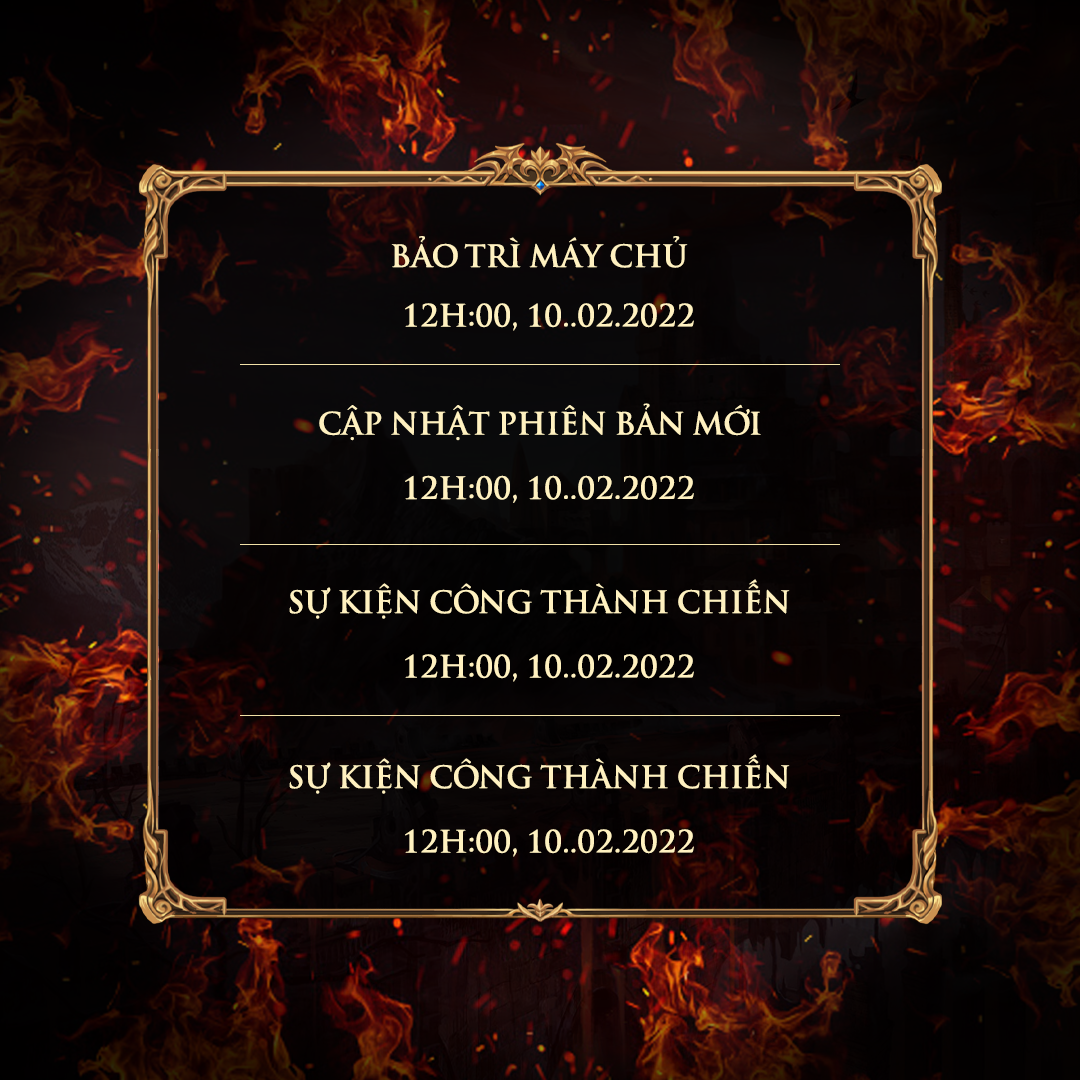
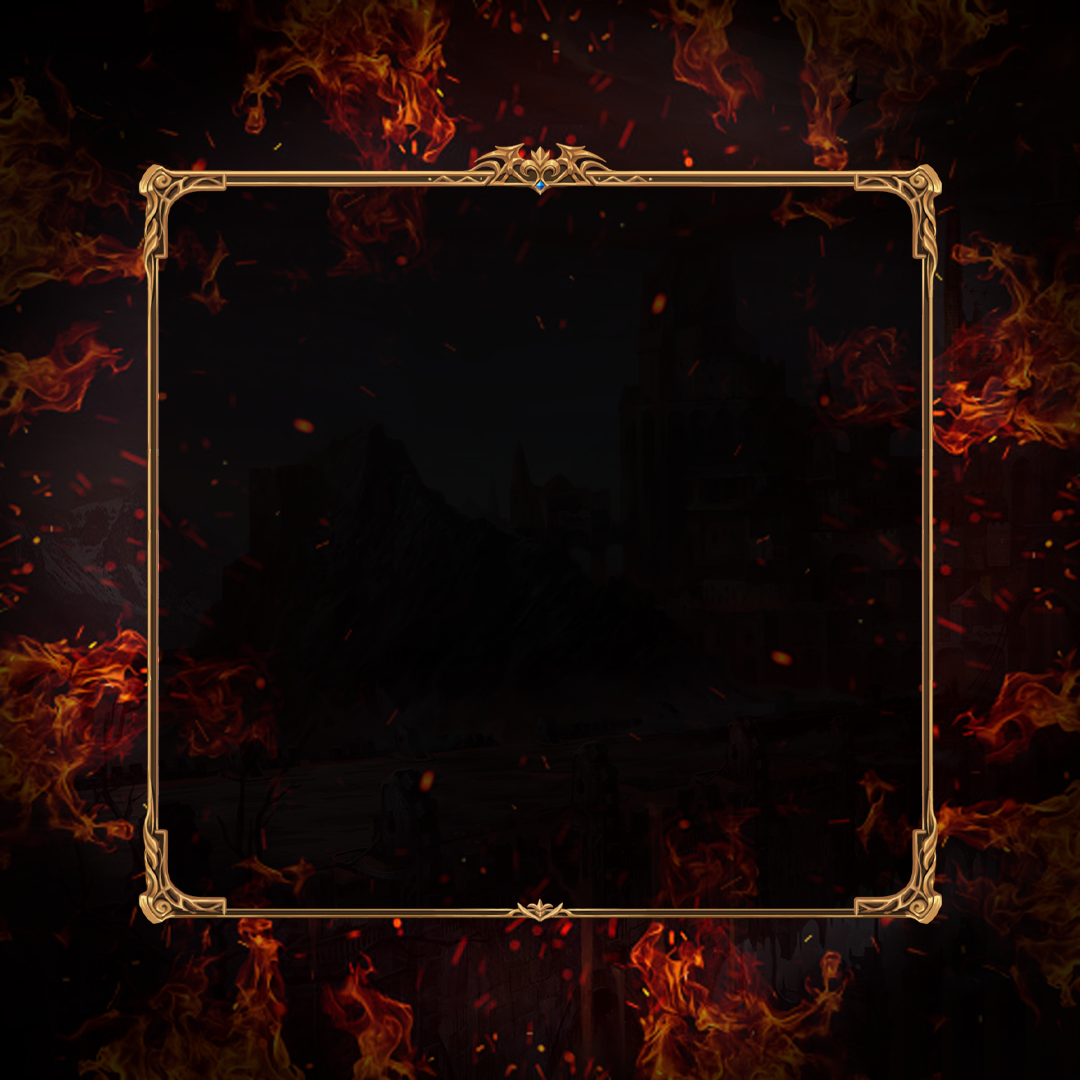
main

diff --git a/index.html b/index.html
@@ -28,65 +28,37 @@
                     src="img/slide1.png"
                     alt
                   />
-                  <div class="card-img-overlay d-flex linkfeat">
+                  <!-- <div class="card-img-overlay d-flex linkfeat">
                     <a href="#" class="align-self-end">
                       <span class="badge">Event 1</span>
                       <h4 class="card-title">Thời gian mở máy chủ</h4>
                       <p class="textfeat" style="display: none"></p>
                     </a>
-                  </div>
+                  </div> -->
                 </div>
               </div>
 
               <div class="carousel-item">
                 <div class="card bg-dark text-white">
                   <img class="card-img img-fluid" src="img/slide2.png" alt />
-                  <div class="card-img-overlay d-flex linkfeat">
-                    <a href="https://dantri.com.vn" class="align-self-end">
-                      <span class="badge">Event 2</span>
-                      <h4 class="card-title">Sự kiện đua top - nạp thẻ</h4>
-                      <p class="textfeat" style></p>
-                    </a>
-                  </div>
                 </div>
               </div>
 
               <div class="carousel-item">
                 <div class="card bg-dark text-white">
                   <img class="card-img img-fluid" src="img/slide3.png" alt />
-                  <div class="card-img-overlay d-flex linkfeat">
-                    <a href="#" class="align-self-end">
-                      <span class="badge">Event 3</span>
-                      <h4 class="card-title">Sự kiện đua top Open</h4>
-                      <p class="textfeat" style="display: none"></p>
-                    </a>
-                  </div>
                 </div>
               </div>
 
               <div class="carousel-item">
                 <div class="card bg-dark text-white">
                   <img class="card-img img-fluid" src="img/slide4.png" alt />
-                  <div class="card-img-overlay d-flex linkfeat">
-                    <a href="#" class="align-self-end">
-                      <span class="badge">Event 4</span>
-                      <h4 class="card-title">Sự kiện truyền nhân Goblin</h4>
-                      <p class="textfeat" style="display: none"></p>
-                    </a>
-                  </div>
                 </div>
               </div>
 
               <div class="carousel-item">
                 <div class="card bg-dark text-white">
                   <img class="card-img img-fluid" src="img/slide5.png" alt />
-                  <div class="card-img-overlay d-flex linkfeat">
-                    <a href="#" class="align-self-end">
-                      <span class="badge">Event 5</span>
-                      <h4 class="card-title">Sự kiện đua top Guild</h4>
-                      <p class="textfeat" style="display: none"></p>
-                    </a>
-                  </div>
                 </div>
               </div>
             </div>
@@ -97,14 +69,13 @@
             <div class="col-6 pb-2 mg-1">
               <div class="card bg-dark text-white">
                 <img class="card-img img-fluid" src="img/account.png" alt />
-                <div class="card-img-overlay d-flex">
+                <div class="card-img-overlay d-flex img-item">
                   <a
                     href="https://dr.legendmu.vn"
                     class="align-self-end"
                     target="_system"
                   >
-                    <span class="badge">Tài khoản</span>
-                    <h6 class="card-title">How to play this game</h6>
+                    <img class="card-img img-fluid" src="img/account.png" alt />
                   </a>
                 </div>
               </div>
@@ -112,16 +83,13 @@
             <div class="col-6 pb-2 mg-2">
               <div class="card bg-dark text-white">
                 <img class="card-img img-fluid" src="img/napthe.png" alt />
-                <div class="card-img-overlay d-flex">
+                <div class="card-img-overlay d-flex img-item">
                   <a
                     target="_system"
                     href="https://napthe.legendmu.vn"
                     class="align-self-end"
                   >
-                    <span class="badge">Donate</span>
-                    <h6 class="card-title text-break">
-                      Please read the game rules
-                    </h6>
+                    <img class="card-img img-fluid" src="img/napthe.png" alt />
                   </a>
                 </div>
               </div>
@@ -140,11 +108,11 @@
                         src="img/buffbua.png"
                         alt
                       />
-                      <div class="card-img-overlay d-flex">
+                      <!-- <div class="card-img-overlay d-flex">
                         <a href="#" class="align-self-end">
                           <span class="badge">Galery</span>
                         </a>
-                      </div>
+                      </div> -->
                     </div>
                   </div>
                   <div class="carousel-item">
@@ -154,11 +122,6 @@
                         src="img/aphbest2hoantra.png"
                         alt
                       />
-                      <div class="card-img-overlay d-flex">
-                        <a href="#" class="align-self-end">
-                          <span class="badge">Galery</span>
-                        </a>
-                      </div>
                     </div>
                   </div>
                   <div class="carousel-item">
@@ -168,33 +131,18 @@
                         src="img/aphbest2duatop.png"
                         alt
                       />
-                      <div class="card-img-overlay d-flex">
-                        <a href="#" class="align-self-end">
-                          <span class="badge">Galery</span>
-                        </a>
-                      </div>
                     </div>
                   </div>
 
                   <div class="carousel-item">
                     <div class="card bg-dark text-white">
                       <img class="card-img img-fluid" src="img/top1.png" alt />
-                      <div class="card-img-overlay d-flex">
-                        <a href="#" class="align-self-end">
-                          <span class="badge">Galery</span>
-                        </a>
-                      </div>
                     </div>
                   </div>
 
                   <div class="carousel-item">
                     <div class="card bg-dark text-white">
                       <img class="card-img img-fluid" src="img/top2.png" alt />
-                      <div class="card-img-overlay d-flex">
-                        <a href="#" class="align-self-end">
-                          <span class="badge">Galery</span>
-                        </a>
-                      </div>
                     </div>
                   </div>
                 </div>
@@ -203,7 +151,24 @@
             <div class="col-6 mg-4">
               <div class="card bg-dark text-white">
                 <img class="card-img img-fluid" src="img/endslide.png" alt />
-                <div class="card-img-overlay"></div>
+                <div class="card-img-overlay info-zone">
+                  <a href="#" class="text-center link">
+                    <span>Bảo trì máy chủ </span>
+                    <h6 class="card-title text-break">12h:00 10-2-2022</h6>
+                  </a>
+                  <a href="#" class="text-center link">
+                    <span>Cập nhật phiên bản mới</span>
+                    <h6 class="card-title text-break">12h:00 10-2-2022</h6>
+                  </a>
+                  <a href="#" class="text-center link">
+                    <span>Sự kiện công thành chiến</span>
+                    <h6 class="card-title text-break">12h:00 10-2-2022</h6>
+                  </a>
+                  <a href="#" class="text-center link link--last">
+                    <span>Sự kiện công thành chiến</span>
+                    <h6 class="card-title text-break">12h:00 10-2-2022</h6>
+                  </a>
+                </div>
               </div>
             </div>
           </div>

diff --git a/css/site.css b/css/site.css
@@ -157,3 +157,35 @@ a:hover {
     padding-right: 0 !important;
     padding-left: 0 !important
 }
+
+.img-item{
+    padding: 0;
+}
+
+.info-zone{
+    display:flex;
+    align-items:center;
+    justify-content:center;
+    flex-direction:column;
+}
+
+.link{
+    color:#fff1c0;
+    border-bottom: 1px solid;
+    width: 60%;
+    opacity: 0.8;
+    font-size: 0.75em;
+    padding:0.5em
+}
+
+.link h6{
+    margin-bottom: 0
+}
+
+.link span{
+    text-transform: uppercase;
+}
+
+.link--last{
+    border-bottom: 0;
+}

diff --git a/js/site.js b/js/site.js
@@ -7,6 +7,6 @@ $(document).ready(function () {
   });
   $("#galery").carousel({
     pauseOnHover: true,
-    interval: 1000,
+    interval: 3000,
   });
 });
